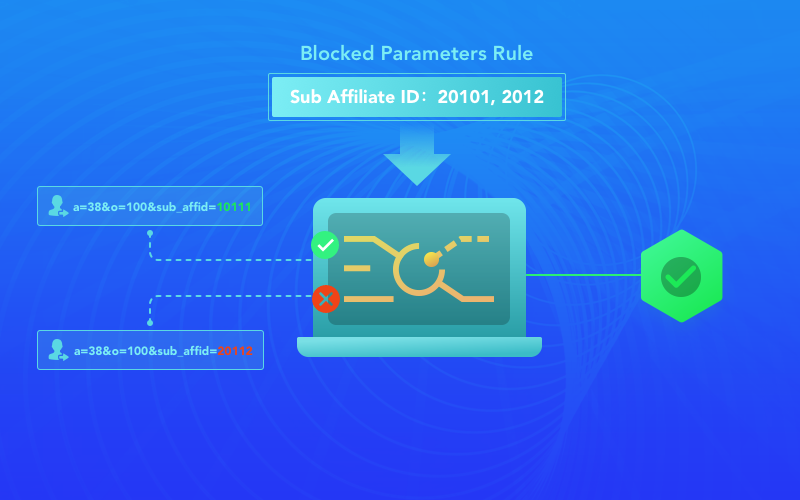
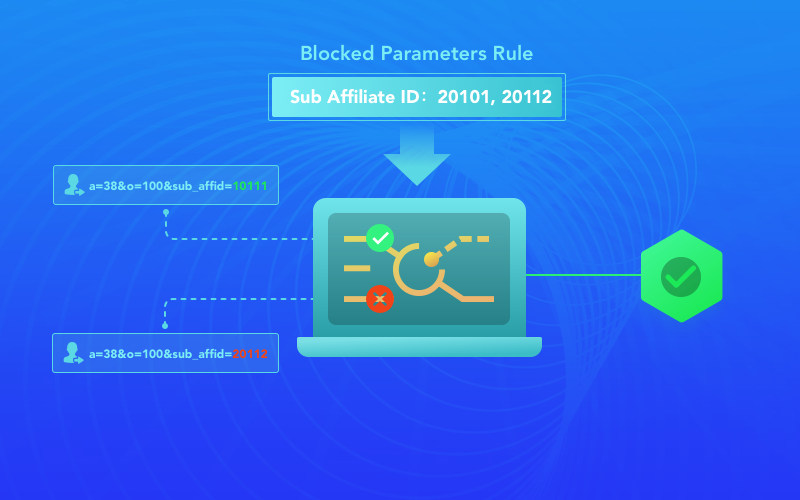
en

diff --git a/en/0304-ParameterRules.md b/en/0304-ParameterRules.md
@@ -1,0 +1,15 @@
+
+# Parameter Targeting
+## Requirement
+For affiliate who aggregates multiple traffic sources, the quality of each traffic source varies greatly. If we block affiliate because of some unwanted traffic sources, the high-quality traffic will be blocked too. So we need access control for traffic sources.
+
+The Parameters Targeting Feature satisfies this requirement. 
+
+We can use a Sub-Affiliate parameter to identify those difference traffic sources from one affiliate, then analyze the Sub-Affiliate traffic performance in our real-time Analyst Report, and set up rules in the Parameters Targetting feature to block those Sub-Affiliates with poor performance.
+![ParameterTargeting](../image/BlockParameters_2.png)
+
+In addition to the Sub-Affiliate parameters, we can set up rules for other parameters, such as Sub-ID1, Sub-ID2, Sub-ID3, Sub-ID4, and Sub-ID5, which can be used to identify other properties of the traffic, such as age, interest, etc.
+
+Besides, the feature can be used to constrain the traffic without device identification such as IDFA and GAID.
+
+These rules will be taken into effect immediately, if the traffic match with one of these rules, it will be rejected, so we can improve the quality of traffic in our system and the advertiser system.
